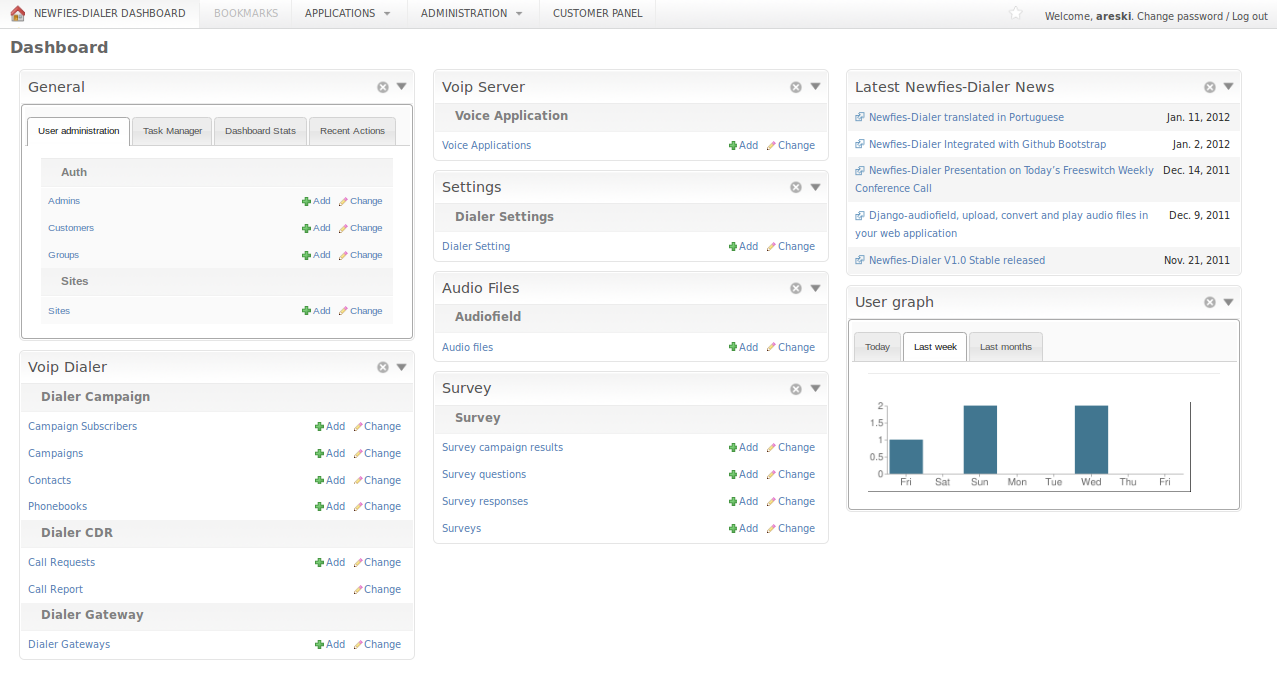
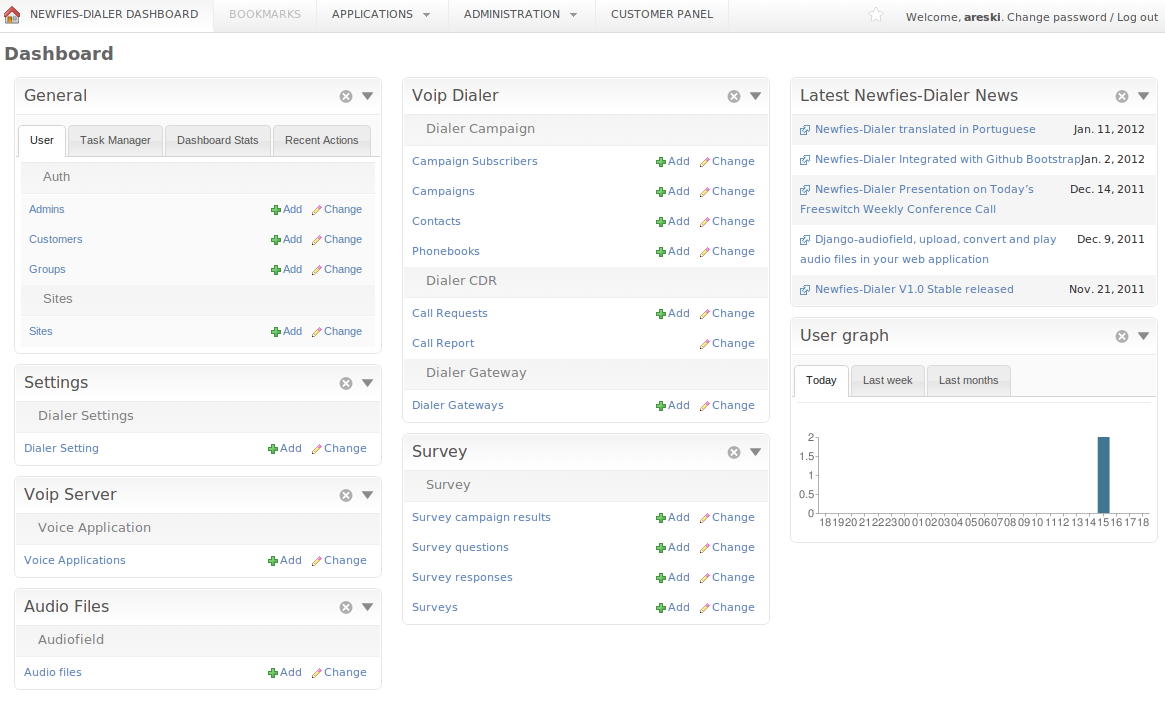
update screenshot

diff --git a/newfies/custom_admin_tools/dashboard.py b/newfies/custom_admin_tools/dashboard.py
@@ -55,7 +55,7 @@ class CustomIndexDashboard(Dashboard):
             display="tabs",
             children=[
                 modules.AppList(
-                    title='User administration',
+                    title='User',
                     models=('django.contrib.*', 'user_profile.*', ),
                 ),
                 modules.AppList(
